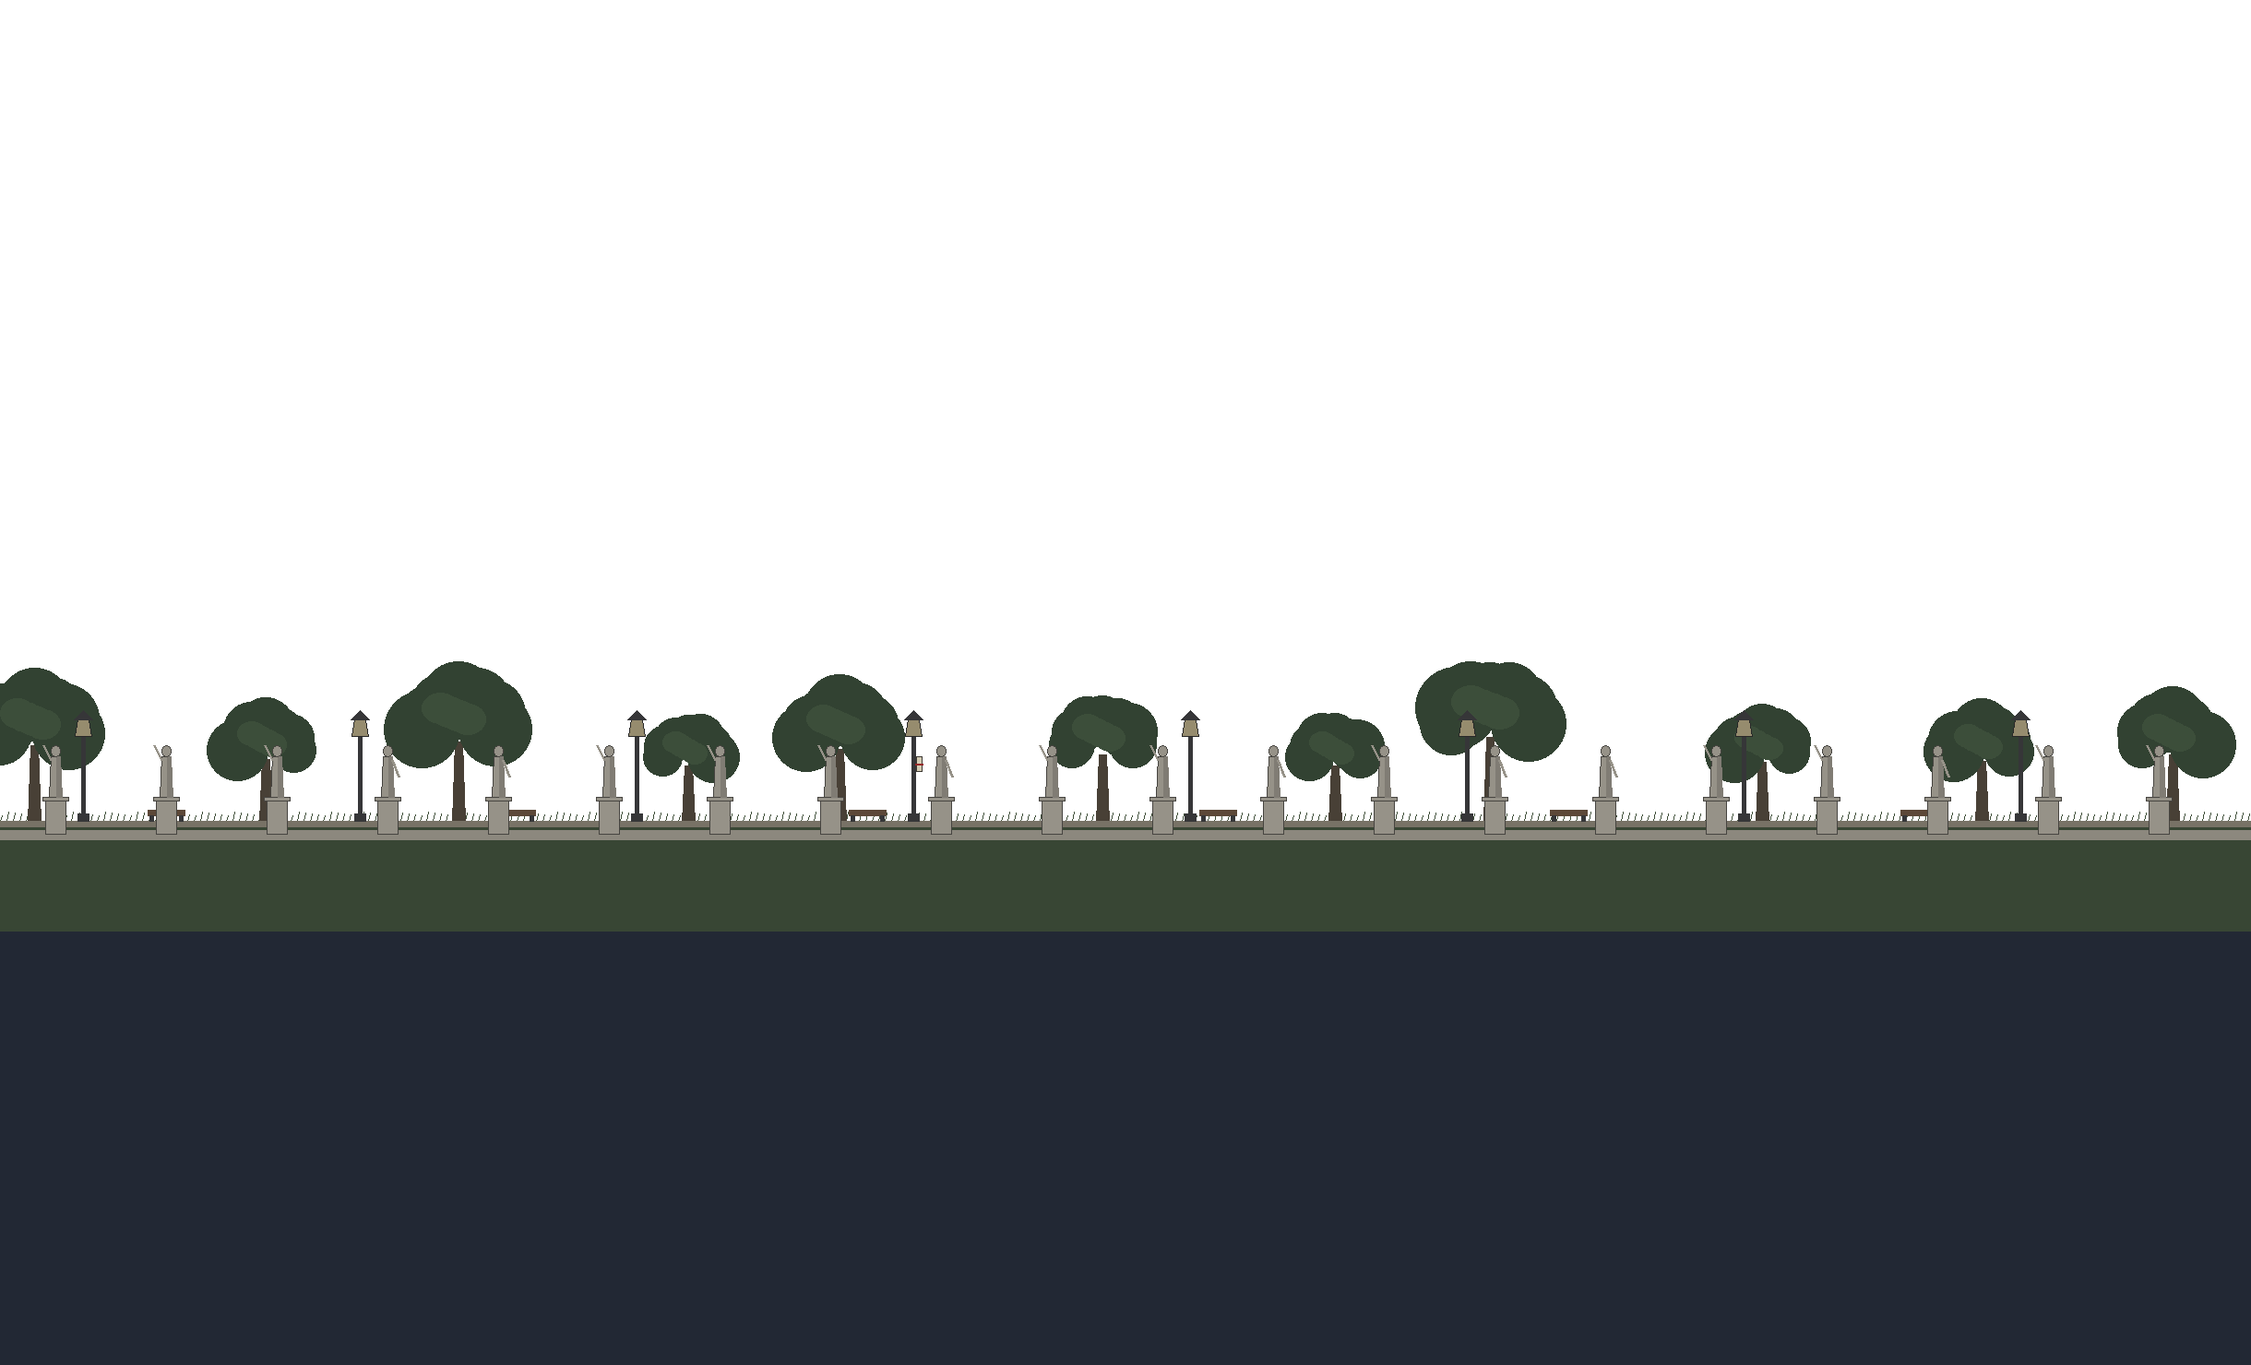
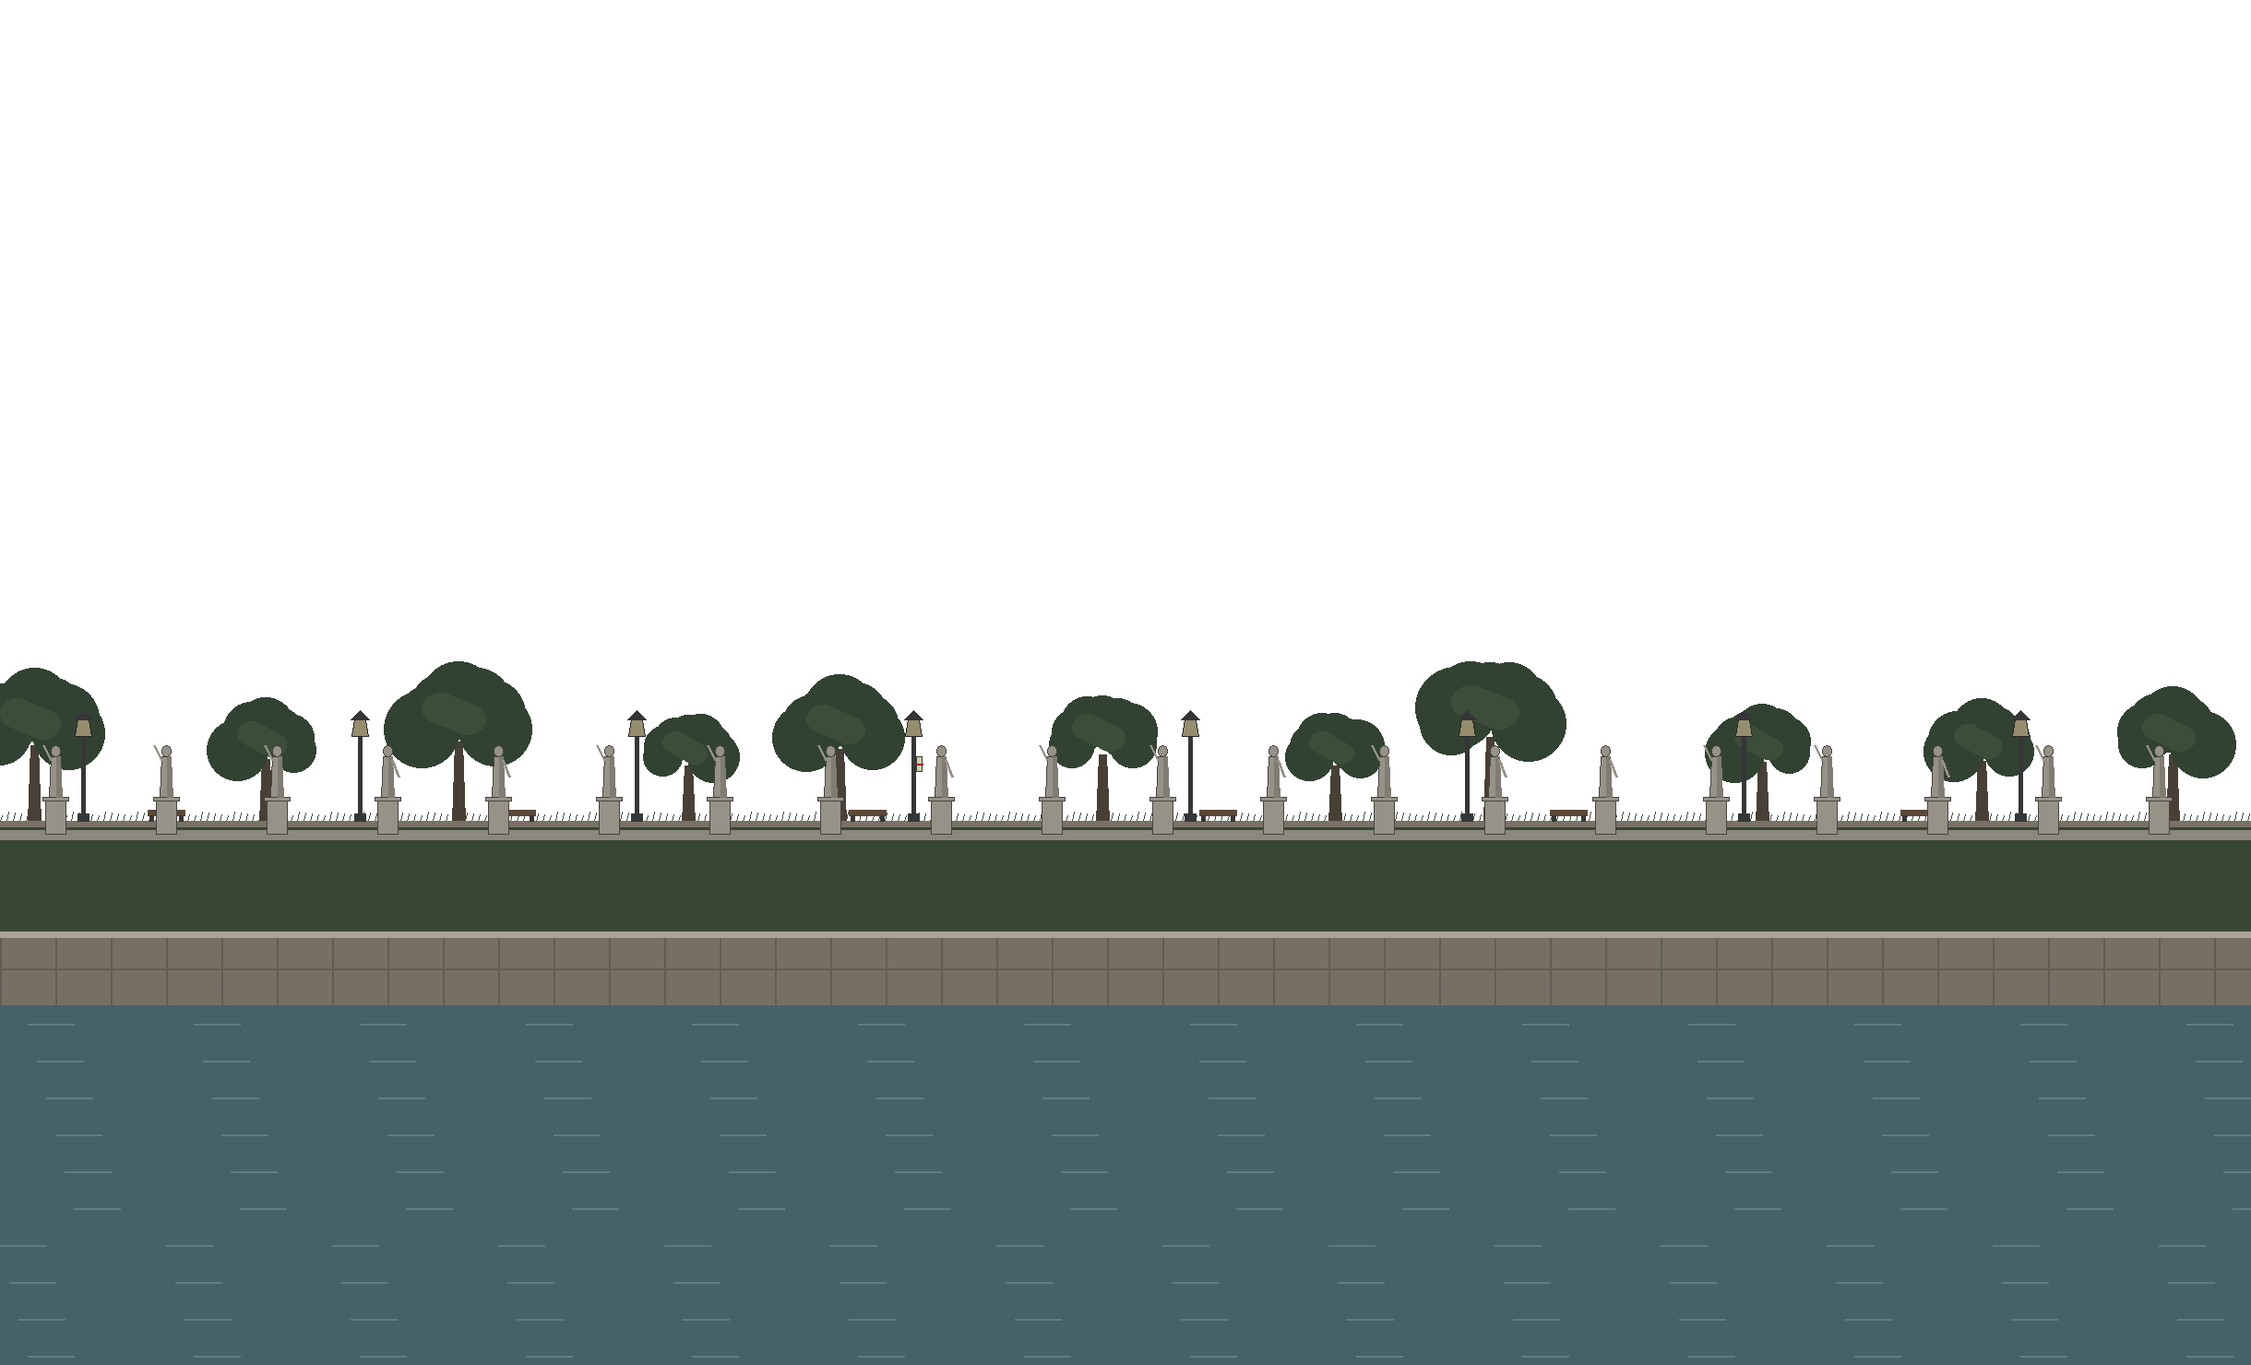
Padova: rive sul canale esterno, barche, splash, sole e luna, cielo di giorno (#264)
Claude-Session: https://claude.ai/code/session_019JFdUcZDyYf2m3RnDrJTnj

diff --git a/src/shared/stages.ts b/src/shared/stages.ts
@@ -29,6 +29,7 @@ export interface MovingPlatform {
   loop?: boolean; // true: dall'ultimo punto torna dritto al primo; altrimenti fa avanti e indietro
   pauseMs?: number; // sosta a ogni punto, come un ascensore al piano
   offsetMs?: number; // sfasamento, per far partire due piattaforme in momenti diversi
+  kind?: string; // solo per il disegno: "barca" (#264); altrimenti la piattaforma con le strisce gialle e nere
 }
 
 // Trappola: un rettangolo che, quando è acceso, toglie percentuale e lancia via chi lo tocca
@@ -115,6 +116,9 @@ export interface StageLife {
   vehicles?: { y: number; parallax: number; everyMs: number; kind: "tram" | "bus" }; // un veicolo che passa ogni tanto
   // Giorno e notte: un giro in cycleMs dall'inizio della partita; startAt da 0 a 1 (0 mezzogiorno, 0,25 tramonto,
   // 0,5 mezzanotte, 0,75 alba). Di notte le stelle; i lampioni si accendono al tramonto e si spengono all'alba
+  // Acqua intorno all'arena (#264): da y in giù, davanti a chi cade (splash). Con flood (indice di una trappola con
+  // l'acqua alta) sale fino a highY insieme a lei
+  outerWater?: { y: number; highY?: number; flood?: number };
   daycycle?: {
     cycleMs: number;
     startAt?: number;
@@ -351,9 +355,10 @@ export const STAGES: Record<string, StageSpec> = {
     width: 1920,
     camera: { minZoom: 0.6 },
     solids: [
-      { x: 100, y: 520, width: 620, height: 200 }, // piazza sinistra
-      { x: 1200, y: 520, width: 620, height: 200 }, // piazza destra
-      { x: 720, y: 690, width: 480, height: 30 }, // fondo del canale
+      // Le piazze sono rive di pietra che scendono fino al canale esterno (#264): l'arena non è sospesa nel vuoto
+      { x: 100, y: 520, width: 620, height: 480 }, // piazza sinistra
+      { x: 1200, y: 520, width: 620, height: 480 }, // piazza destra
+      { x: 720, y: 690, width: 480, height: 310 }, // fondo del canale
     ],
     platforms: [
       // Il ponte va per primo: camminando dalla piazza si resta sul ponte, tenendo giù si scende sulla scala (#246)
@@ -380,6 +385,12 @@ export const STAGES: Record<string, StageSpec> = {
         travel: { path: [{ x: -160, y: 425 }, { x: 680, y: 425 }, { x: 920, y: 400 }, { x: 1160, y: 425 }, { x: 2080, y: 425 }],
           periodMs: 20000, warnMs: 1000, crossMs: 2800, alternate: true, offsetMs: 7000 } },
     ],
+    // Le barche del canale esterno (#264): arrivano quando l'acqua è bassa e si fermano accanto alle rive, così chi
+    // è caduto ci può atterrare e risalire con il doppio salto; quando piove aspettano fuori scena
+    movers: [
+      { kind: "barca", width: 160, path: [{ x: -560, y: 780 }, { x: -150, y: 780 }], periodMs: 40000, pauseMs: 14000, offsetMs: 16000 },
+      { kind: "barca", width: 160, path: [{ x: 2380, y: 780 }, { x: 1910, y: 780 }], periodMs: 40000, pauseMs: 14000, offsetMs: 16000 },
+    ],
     // Il getto della fontana in fondo al canale (#253): una scorciatoia verso le lastre alte
     jets: [{ x: 930, y: 690, width: 60, height: 300, speed: 1300, periodMs: 9000, warnMs: 1200, activeMs: 1500, offsetMs: 3000 }],
     // Gli oggetti cadono spesso nel canale e sulle lastre delle statue: rischio e premio, e un motivo per salire
@@ -396,7 +407,7 @@ export const STAGES: Record<string, StageSpec> = {
     blastZone: { left: -300, right: 2220, top: -420, bottom: 1000 },
     spawns: [300, 450, 200, 600, 380, 520, 250, 660].flatMap((x) => [{ x, y: 520 }, { x: 1920 - x, y: 520 }]).slice(0, 8),
     respawn: { x: 960, y: 100 },
-    colors: { sky: 0x2b3446, solid: 0x6f6a60, solidEdge: 0xe8e2d2, platform: 0xd9d4c7 },
+    colors: { sky: 0x7aa0c4, solid: 0x6f6a60, solidEdge: 0xe8e2d2, platform: 0xd9d4c7 },
     // Rilassata, da pomeriggio in piazza. TODO community: un pezzo del canale da rifare per Padova?
     music: { bpm: 116, chords: ["F", "Am", "Bb", "C"], lead: "triangle" },
     // Segnaposto disegnati col codice da tools/arene/padova.py: si sostituiscono con i disegni veri, stessi nomi
@@ -409,6 +420,7 @@ export const STAGES: Record<string, StageSpec> = {
       preview: "anteprima.png",
       skins: {
         pietra: { file: "pietra.png", edge: "bordo.png" },
+        riva: { file: "riva.png", edge: "bordo.png" }, // il muro della riva, a grandi blocchi
         fondo: { file: "scala.png" },
         ponte: {
           file: "ponte.png",
@@ -425,7 +437,7 @@ export const STAGES: Record<string, StageSpec> = {
       solidSkin: "pietra",
       platformSkin: "lastra",
       pieces: {
-        solids: ["pietra", "pietra", "fondo"],
+        solids: ["riva", "riva", "fondo"],
         platforms: ["ponte", "scala", "scala", "lastra", "lastra", "lastra", "lastra", "lastra", "lastra", "balcone", "balcone"],
       },
       props: [
@@ -442,6 +454,7 @@ export const STAGES: Record<string, StageSpec> = {
       // Sfondo vivo (#260): stormi, piccioni sulle teste delle statue, passanti sul vialetto del prato con l'ombrello
       // quando piove, il tram davanti ai portici e il giorno che passa: tramonto, notte con le stelle e i lampioni, alba
       life: {
+        outerWater: { y: 800, highY: 760, flood: 0 }, // il canale esterno, che sale con la pioggia come quello interno
         birds: { y: 40, parallax: 0.2, everyMs: 14000 },
         // Sulle punte delle lastre delle statue e sul cornicione del palazzo
         pigeons: [{ x: 485, y: 330 }, { x: 1435, y: 330 }, { x: 235, y: 380 }, { x: 1685, y: 380 }, { x: 790, y: 100 }, { x: 1130, y: 100 }],

diff --git a/src/shared/physics/elements.test.ts b/src/shared/physics/elements.test.ts
@@ -271,3 +271,28 @@ describe("canale di Padova (#253)", () => {
     assert.equal(up.f.percent, 0);
   });
 });
+
+describe("Padova, canale esterno (#264)", () => {
+  it("la barca accanto alla riva sinistra raccoglie chi cade quando l'acqua è bassa, e da lì si risale", () => {
+    const stage = getStage("padova");
+    const { ctx, f } = setup(stage, { x: -70, y: 700 });
+    ctx.timeMs = 6000; // l'acqua è bassa e la barca è ferma accanto alla riva
+    f.onGround = false;
+    run(f, ctx, 30);
+    assert.equal(f.riding, 0, "è sulla barca");
+    assert.equal(f.y, 780);
+    assert.equal(hazardRect(stage.hazards![0], 6000).y, 660, "intanto l'acqua alta è giù");
+    // Dalla barca alla piazza ci sono 260 px: meno del doppio salto
+    assert.ok(780 - 520 < 293, "la riva si raggiunge con il doppio salto");
+  });
+
+  it("quando l'acqua sale le barche sono fuori scena", () => {
+    const stage = getStage("padova");
+    for (const t of [30000, 34000]) {
+      for (const m of stage.movers!) {
+        const x = moverPosition(m, t).x;
+        assert.ok(x < stage.blastZone.left || x > stage.blastZone.right, `a ${t} ms la barca è fuori (x = ${x})`);
+      }
+    }
+  });
+});

diff --git a/tools/arene/padova.py b/tools/arene/padova.py
@@ -58,6 +58,24 @@ def paving():
     save(img, "pietra.png")
 
 
+def quay_wall():
+    """Il muro della riva sul canale (#264): grandi blocchi di pietra d'Istria sfalsati, umidi verso il basso."""
+    w, h = 120, 60
+    img = Image.new("RGBA", (w, h), (126, 120, 108, 255))
+    d = ImageDraw.Draw(img)
+    rng = random.Random(9)
+    for r in range(2):
+        y = r * 30
+        off = 0 if r % 2 == 0 else 30
+        for x in range(-60 + off, w, 60):
+            tone = rng.choice([(132, 126, 114, 255), (122, 116, 104, 255), (138, 131, 118, 255)])
+            d.rectangle([x + 1, y + 1, x + 58, y + 28], fill=tone)
+            d.rectangle([x + 1, y + 22, x + 58, y + 28], fill=(108, 102, 92, 255))  # ombra piatta del blocco
+            d.line([x, y, x, y + 30], fill=(90, 85, 76, 255), width=2)
+        d.line([0, y, w, y], fill=(90, 85, 76, 255), width=2)
+    save(img, "riva.png")
+
+
 def edge(name, w, h, top=EDGE):
     img = Image.new("RGBA", (w, h), top)
     d = ImageDraw.Draw(img)
@@ -412,8 +430,9 @@ def dome(d, cx, base, r, h, fill, shade, ink, ribs=6, lantern=True):
 def basilica_santo(d, cx, base, k=1.0):
     """La Basilica di Sant'Antonio vista da Prato della Valle: facciata a capanna con la loggia e il rosone,
     otto cupole (la conica al centro), i due campanili a minareto e le torrette. Sagoma azzurrata e lontana."""
-    F, S, I = (88, 98, 122, 255), (74, 82, 104, 255), (52, 58, 78, 255)
-    L = (104, 114, 138, 255)
+    # di giorno: mattone spento della chiesa, piombo grigio delle cupole, un po' velati dalla lontananza
+    F, S, I = (164, 128, 112, 255), (146, 112, 98, 255), (92, 76, 72, 255)
+    L = (178, 144, 128, 255)
     # corpo della chiesa, dietro le cupole
     d.rectangle([cx - 330 * k, base - 150 * k, cx + 330 * k, base], fill=F, outline=I, width=2)
     for i in range(14):  # archetti pensili e finestre del fianco
@@ -432,16 +451,17 @@ def basilica_santo(d, cx, base, k=1.0):
         d.polygon([(tx - 11 * k, base - 480 * k), (tx + 11 * k, base - 480 * k), (tx, base - 540 * k)], fill=S, outline=I)  # punta conica
         d.line([tx, base - 540 * k, tx, base - 556 * k], fill=I, width=2)
     # le cupole: due sulla navata, la conica al centro, poi quelle del transetto e dell'abside
-    dome(d, cx - 160 * k, base - 150 * k, 62 * k, 96 * k, F, S, I)
-    dome(d, cx - 40 * k, base - 150 * k, 66 * k, 104 * k, F, S, I)
-    dome(d, cx + 230 * k, base - 150 * k, 58 * k, 90 * k, F, S, I)
-    dome(d, cx + 90 * k, base - 170 * k, 52 * k, 82 * k, L, F, I)
-    dome(d, cx + 330 * k, base - 140 * k, 40 * k, 60 * k, F, S, I)
+    PB, PS, PL = (150, 158, 166, 255), (128, 136, 146, 255), (166, 172, 180, 255)  # piombo delle cupole
+    dome(d, cx - 160 * k, base - 150 * k, 62 * k, 96 * k, PB, PS, I)
+    dome(d, cx - 40 * k, base - 150 * k, 66 * k, 104 * k, PB, PS, I)
+    dome(d, cx + 230 * k, base - 150 * k, 58 * k, 90 * k, PB, PS, I)
+    dome(d, cx + 90 * k, base - 170 * k, 52 * k, 82 * k, PL, PB, I)
+    dome(d, cx + 330 * k, base - 140 * k, 40 * k, 60 * k, PB, PS, I)
     # il cono: la cupola conica sopra l'altare
     cone_x, cone_b = cx + 60 * k, base - 210 * k
     d.rectangle([cone_x - 52 * k, cone_b, cone_x + 52 * k, base - 150 * k], fill=F, outline=I, width=2)
-    outlined(d, [(cone_x - 50 * k, cone_b), (cone_x + 50 * k, cone_b), (cone_x, cone_b - 190 * k)], F, I)
-    d.polygon([(cone_x, cone_b), (cone_x + 50 * k, cone_b), (cone_x, cone_b - 190 * k)], fill=S)
+    outlined(d, [(cone_x - 50 * k, cone_b), (cone_x + 50 * k, cone_b), (cone_x, cone_b - 190 * k)], PB, I)
+    d.polygon([(cone_x, cone_b), (cone_x + 50 * k, cone_b), (cone_x, cone_b - 190 * k)], fill=PS)
     for i in range(1, 5):
         d.line([cone_x - 50 * k + i * 20 * k, cone_b, cone_x, cone_b - 190 * k], fill=I, width=1)
     d.ellipse([cone_x - 6 * k, cone_b - 206 * k, cone_x + 6 * k, cone_b - 190 * k], fill=F, outline=I, width=2)
@@ -469,7 +489,7 @@ def basilica_santo(d, cx, base, k=1.0):
 
 def santa_giustina(d, cx, base):
     """Santa Giustina, più lontana: facciata grezza, le otto cupole basse con le statuine e il campanile."""
-    F, S, I = (80, 88, 110, 255), (68, 76, 96, 255), (54, 60, 80, 255)
+    F, S, I = (170, 150, 140, 255), (154, 136, 128, 255), (110, 98, 94, 255)  # più lontana: più chiara e velata
     d.rectangle([cx - 230, base - 110, cx + 230, base], fill=F, outline=I, width=2)
     for i, (dx, r) in enumerate([(-170, 34), (-90, 44), (0, 56), (95, 44), (175, 34)]):
         dome(d, cx + dx, base - 110, r, r * 1.2, F, S, I, ribs=4)
@@ -487,14 +507,16 @@ def cloud(d, x, y, w, col, shade):
 
 
 def sky(d, W, H):
-    bands = [(38, 46, 64), (43, 52, 70), (49, 58, 77), (56, 64, 83), (64, 70, 88), (73, 76, 92)]
-    for i, c in enumerate(bands):  # cielo a fasce, più chiaro verso l'orizzonte
+    # cielo di giorno, a fasce piatte: azzurro spento in alto, più chiaro e caldo verso l'orizzonte (la notte la fa il velo)
+    bands = [(122, 160, 196), (136, 172, 204), (152, 184, 210), (168, 194, 214), (184, 202, 214), (198, 206, 210)]
+    d.rectangle([0, 0, W, H], fill=bands[0] + (255,))
+    for i, c in enumerate(bands):
         y = to_px(0, -300 + i * 140)[1]
         d.rectangle([0, y, W, H], fill=c + (255,))
     rng = random.Random(5)
-    for _ in range(9):  # nuvole piatte
+    for _ in range(9):  # nuvole bianche con la pancia in ombra
         x, y = rng.uniform(0, W), to_px(0, rng.uniform(-260, 120))[1]
-        cloud(d, x, y, rng.uniform(160, 320), (70, 78, 98, 255), (62, 70, 90, 255))
+        cloud(d, x, y, rng.uniform(160, 320), (236, 238, 240, 255), (206, 212, 220, 255))
     base = to_px(0, 470)[1]
     santa_giustina(d, to_px(300, 0)[0], base + 10)
     basilica_santo(d, to_px(1500, 0)[0], base, 0.95)
@@ -623,7 +645,16 @@ def lawn(d, W, H):
     base = int(to_px(0, 560)[1])
     rng = random.Random(11)
     d.rectangle([0, base - 50, W, base + 70], fill=(56, 70, 52, 255))  # il prato dell'Isola Memmia, spento
-    d.rectangle([0, base + 70, W, H], fill=(34, 40, 52, 255))  # sotto il palco: il buio, non il prato
+    # oltre il prato: la riva lontana del canale esterno e la sua acqua (#264), non il vuoto
+    d.rectangle([0, base + 70, W, base + 150], fill=(118, 112, 100, 255))
+    for bx in range(0, W, 60):
+        d.line([bx, base + 70, bx, base + 150], fill=(98, 93, 84, 255), width=2)
+    d.line([0, base + 110, W, base + 110], fill=(98, 93, 84, 255), width=2)
+    d.rectangle([0, base + 70, W, base + 76], fill=(170, 164, 150, 255))
+    d.rectangle([0, base + 150, W, H], fill=(70, 98, 104, 255))
+    for wy in range(base + 170, H, 40):  # riflessi
+        for wx in range((wy * 7) % 90, W, 180):
+            d.line([wx, wy, wx + 50, wy], fill=(96, 126, 130, 255), width=2)
     for x in range(0, W, 7):  # erba a ciuffi sul bordo
         d.line([x, base - 50, x + 2, base - 56 - (x * 7 % 5)], fill=(64, 80, 58, 255), width=1)
     for i, tx in enumerate(range(30, W, 230)):  # platani
@@ -752,6 +783,7 @@ def balcony_floor():
 
 if __name__ == "__main__":
     paving()
+    quay_wall()
     edge("bordo.png", 96, 8)
     deck()
     stairs()

diff --git a/docs/arene.md b/docs/arene.md
@@ -100,6 +100,8 @@ Una piattaforma sottile che passa per una lista di punti. Chi ci sta sopra viene
 { width: 140, path: [{ x: 570, y: 540 }, { x: 570, y: 260 }], periodMs: 7000, pauseMs: 1200 } // ascensore
 ```
 
+Una piattaforma mobile con `kind: "barca"` si disegna come una barca (#264): la superficie su cui si sta è sempre la `y` del percorso. Con le piattaforme mobili il predittore del proprio lottatore si spegne solo vicino al loro percorso.
+
 ### Trappola (`hazards`): spuntoni, fuoco, laser
 
 Un rettangolo che, quando è acceso, aggiunge percentuale e lancia via chi lo tocca (come un colpo). Il KO va a chi ti ci ha spinto. Dopo una trappola si è al sicuro per `HAZARD.cooldownMs` (in `constants.ts`).
@@ -253,6 +255,7 @@ Facoltativo, solo grafica: elementi animati che fanno sembrare il posto abitato.
 | `pigeons: [{ x, y }]` | piccioni posati (sulle statue, sui cornicioni): scappano quando un lottatore arriva vicino o passa il ciclista, e tornano dopo 7 s |
 | `walkers: { y, parallax, count, umbrellas? }` | `count` passanti sulla linea `y`; con `umbrellas` aprono l'ombrello quando piove (acqua alta) |
 | `vehicles: { y, parallax, everyMs, kind }` | un tram o un bus (`kind`) che passa in 12 s, ogni `everyMs` (più di 12000) |
+| `outerWater: { y, highY?, flood? }` | acqua intorno all'arena, da `y` in giù, disegnata davanti a chi cade, con lo splash. Con `flood` (indice di una trappola con l'acqua alta) sale fino a `highY` insieme a lei. Le rive possono scendere fino all'acqua: l'arena non sembra sospesa nel vuoto |
 | `daycycle: { cycleMs, startAt?, lamps? }` | giorno e notte: un giro intero in `cycleMs` dall'inizio della partita, partendo da `startAt` (0 mezzogiorno, 0,25 tramonto, 0,5 mezzanotte, 0,75 alba). Di notte si vedono le stelle; i lampioni `{ x, y, parallax }` si accendono al tramonto e si spengono all'alba, le finestre `windows: [{ x, y, width, height }]` si accendono una alla volta. Il velo della notte copre lo sfondo e le decorazioni, non il palco |
 
 Colori spenti, lontani da quelli dei giocatori (style guide, sezione 7).
